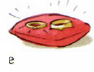
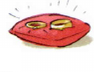
AB A1.2 p91 round 2: Droid Serif body, ex7 letters, bank/rings/colors
- Body text naS14(Times) -> naBookSerif (DroidSerif 14px, -0.35 tracking)
- Table headers DroidSerif bold 12px; dash fixed letters use DroidSerif face
- Ex7: add italic serif row letters a/b/c/d; field 7b underline at scan y992;
  pics moved before texts in DOM so text paints over pic white edges
  (bestanden! and Freunde tails no longer clipped)
- Bank strip: true bounds x107-457 y149-168, bg #fbf5d6 (measured)
- Ex5/ex6a rings: 1px pale (#d3d6c8 / #c9cdc0) matching scan
- Rings crop mask widened (Freunde tail ghost removed)

Changed region(s): [[0.0851, 0.7778, 0.1702, 0.9167]]

diff --git a/src/native-ab12-l2324/NativeAB12L23.tsx b/src/native-ab12-l2324/NativeAB12L23.tsx
@@ -432,48 +432,48 @@ export function NativeAB12L23({page}:{page:string}){
   {kb(32,124,'KB 3')}
   <div className="naSide naSideB" style={{left:56,top:160}}>STRUKTUREN</div>
   {title('4',55,119,640,'Ordnen Sie zu.','naRB naNw')}
-  <div className="naBank" style={{left:102,top:146,width:620,height:24,background:'#f5f9df'}}/>
+  <div className="naBank" style={{left:107,top:149,width:350,height:19,background:'#fbf5d6'}}/>
   <div className="naBank88" style={{left:111,top:149}}><Words text="ab | "/><span className="naStrikeB"><Words text="am"/></span><Words text=" | am | bis | bis | für | nach | im | in | um | vom | von"/></div>
-  {text(109,177,16,'a')}<div className="naText naS14 naNw" style={{left:127,top:177,width:340}}><span className="naStrikeB naBankInk"><Words text="Am"/></span><Words text=" Mittwoch hat Isabella Prüfung. Wir treffen uns"/></div>
+  {text(109,177,16,'a','naBookSerif naIt91')}<div className="naText naBookSerif naNw" style={{left:127,top:177,width:340}}><span className="naStrikeB naBankInk"><Words text="Am"/></span><Words text=" Mittwoch hat Isabella Prüfung. Wir treffen uns"/></div>
   {field('91-4a',464,175,62,'4 a um')}
-  {text(530,177,185,'17.00 Uhr vor der Schule und','naS14 naNw')}
-  {text(126,198,130,'wollen ihr gratulieren.','naS14 naNw')}
-  {text(108,217,16,'b')}{text(127,217,95,'Frau Stern hat','naS14 naNw')}
+  {text(530,177,185,'17.00 Uhr vor der Schule und','naBookSerif naNw')}
+  {text(126,198,130,'wollen ihr gratulieren.','naBookSerif naNw')}
+  {text(108,217,16,'b','naBookSerif naIt91')}{text(127,217,95,'Frau Stern hat','naBookSerif naNw')}
   {field('91-4b1',226,213,61,'4 b1 am')}
-  {text(292,217,140,'17. August Geburtstag.','naS14 naNw')}
+  {text(292,217,140,'17. August Geburtstag.','naBookSerif naNw')}
   {field('91-4b2',437,213,62,'4 b2 von')}
-  {text(503,217,60,'15.00 Uhr','naS14 naNw')}
+  {text(503,217,60,'15.00 Uhr','naBookSerif naNw')}
   {field('91-4b3',568,213,62,'4 b3 bis')}
-  {text(634,217,75,'16.00 Uhr','naS14 naNw')}
-  {text(126,237,290,'gibt es in ihrem Büro Kaffee und Kuchen.','naS14 naNw')}
-  {text(108,256,16,'c')}
+  {text(634,217,75,'16.00 Uhr','naBookSerif naNw')}
+  {text(126,237,290,'gibt es in ihrem Büro Kaffee und Kuchen.','naBookSerif naNw')}
+  {text(108,256,16,'c','naBookSerif naIt91')}
   {field('91-4c1',125,252,62,'4 c1 Im')}
-  {text(189,256,210,'Juli hat Herr Bellmann Urlaub,','naS14 naNw')}
+  {text(189,256,210,'Juli hat Herr Bellmann Urlaub,','naBookSerif naNw')}
   {field('91-4c2',402,252,62,'4 c2 vom')}
-  {text(467,256,45,'5. Juli','naS14 naNw')}
+  {text(467,256,45,'5. Juli','naBookSerif naNw')}
   {field('91-4c3',510,252,62,'4 c3 bis')}
-  {text(576,256,90,'zum 19. Juli.','naS14 naNw')}
-  {text(108,275,16,'d')}
+  {text(576,256,90,'zum 19. Juli.','naBookSerif naNw')}
+  {text(108,275,16,'d','naBookSerif naIt91')}
   {field('91-4d',125,271,62,'4 d Nach')}
-  {text(190,275,340,'dem Urlaub zieht er dann mit seiner Familie um.','naS14 naNw')}
-  {text(108,294,16,'e')}
+  {text(190,275,340,'dem Urlaub zieht er dann mit seiner Familie um.','naBookSerif naNw')}
+  {text(108,294,16,'e','naBookSerif naIt91')}
   {field('91-4e',125,290,62,'4 e In')}
-  {text(190,294,520,'vier Wochen ist schon wieder Weihnachten. Und ich habe noch keine','naS14 naNw')}
-  {text(126,315,100,'Geschenke.','naS14 naNw')}
-  {text(108,333,16,'f')}
+  {text(190,294,520,'vier Wochen ist schon wieder Weihnachten. Und ich habe noch keine','naBookSerif naNw')}
+  {text(126,315,100,'Geschenke.','naBookSerif naNw')}
+  {text(108,333,16,'f','naBookSerif naIt91')}
   {field('91-4f1',125,329,63,'4 f1 Ab')}
-  {text(191,333,100,'Montag bin ich','naS14 naNw')}
+  {text(191,333,100,'Montag bin ich','naBookSerif naNw')}
   {field('91-4f2',294,329,62,'4 f2 für')}
-  {text(360,333,150,'drei Wochen im Urlaub.','naS14 naNw')}
+  {text(360,333,150,'drei Wochen im Urlaub.','naBookSerif naNw')}
   {check('91-4',640,330,{'91-4a':'um','91-4b1':'am','91-4b2':'von','91-4b3':'bis','91-4c1':'Im|im','91-4c2':'vom','91-4c3':'bis','91-4d':'Nach|nach','91-4e':'In|in','91-4f1':'Ab|ab','91-4f2':'für'})}
   {kb(32,387,'KB 3')}
   <div className="naSide naSideB" style={{left:56,top:437}}>HÖREN</div>
   {title('5',55,382,640,'Was ist richtig? Hören Sie und kreuzen Sie an.','naRB naNw')}
   <button className="naAudio" style={{left:20,top:398}} aria-label="Originalaudio 2 40–43 abspielen" onClick={()=>{const p=c.player.current;if(!p)return;const seq=['assets/ab-cd2-track40.mp3','assets/ab-cd2-track41.mp3','assets/ab-cd2-track42.mp3','assets/ab-cd2-track43.mp3'];let i=0;p.onended=()=>{i+=1;if(i<seq.length){p.src=seq[i];p.play().catch(()=>{})}else{p.onended=null}};p.src=seq[0];p.play().catch(()=>{})}}>▶ 2 40–43</button>
-  {text(109,412,16,'a')}{text(126,412,380,'Am 23. August kann man die Praxis wieder besuchen.','naS14 naNw')}
-  {text(109,432,16,'b')}{text(126,432,300,'Luisa schafft es sicher um 15.30 Uhr.','naS14 naNw')}
-  {text(109,452,16,'c')}{text(126,452,380,'Der Anrufer wartet noch 10 Minuten vor dem Kino.','naS14 naNw')}
-  {text(109,472,16,'d')}{text(126,472,260,'Michi hat am Sonntag keine Zeit.','naS14 naNw')}
+  {text(109,412,16,'a','naBookSerif naIt91')}{text(126,412,380,'Am 23. August kann man die Praxis wieder besuchen.','naBookSerif naNw')}
+  {text(109,432,16,'b','naBookSerif naIt91')}{text(126,432,300,'Luisa schafft es sicher um 15.30 Uhr.','naBookSerif naNw')}
+  {text(109,452,16,'c','naBookSerif naIt91')}{text(126,452,380,'Der Anrufer wartet noch 10 Minuten vor dem Kino.','naBookSerif naNw')}
+  {text(109,472,16,'d','naBookSerif naIt91')}{text(126,472,260,'Michi hat am Sonntag keine Zeit.','naBookSerif naNw')}
   {dot('91-5a','true',519,414,'5 a richtig',true,'naDotR91')}
   {dot('91-5b','true',519,434,'5 b richtig',true,'naDotR91')}
   {dot('91-5c','true',519,454,'5 c richtig',true,'naDotR91')}
@@ -483,17 +483,17 @@ export function NativeAB12L23({page}:{page:string}){
   <div className="naSide naSideB" style={{left:56,top:576}}>WÖRTER</div>
   {title('6',55,518,640,'Was feiern die Personen?','naRB naNw')}
   {audio('assets/ab-cd2-track44.mp3',17,546,'2 44')}
-  {text(85,549,16,'a')}{text(110,549,230,'Hören Sie und nummerieren Sie.','naS14 naNw')}
+  {text(85,549,16,'a','naBookSerif naIt91')}{text(110,549,230,'Hören Sie und nummerieren Sie.','naBookSerif naNw')}
   {field('91-6a-ostern',107,576,18,'6 a Ostern Nummer','naFieldBlank naCirc91')}
-  {text(128,576,60,'Ostern','naS14 naNw')}
+  {text(128,576,60,'Ostern','naBookSerif naNw')}
   {art('circ1',192,579,24,15)}
-  {text(209,576,85,'Geburtstag','naS14 naNw')}
+  {text(209,576,85,'Geburtstag','naBookSerif naNw')}
   {field('91-6a-weihnachten',297,576,18,'6 a Weihnachten Nummer','naFieldBlank naCirc91')}
-  {text(316,576,100,'Weihnachten','naS14 naNw')}
+  {text(316,576,100,'Weihnachten','naBookSerif naNw')}
   {field('91-6a-silvester',421,576,18,'6 a Silvester Nummer','naFieldBlank naCirc91')}
-  {text(441,576,70,'Silvester','naS14 naNw')}
+  {text(441,576,70,'Silvester','naBookSerif naNw')}
   {check('91-6a',560,573,{'91-6a-ostern':'4','91-6a-weihnachten':'3','91-6a-silvester':'2'})}
-  {text(85,617,16,'b')}<div className="naText naS14 naNw" style={{left:110,top:617,width:280}}><Words text="Ergänzen Sie aus "/><span className="naBlue naIt">a</span><Words text=" und vergleichen Sie."/></div>
+  {text(85,617,16,'b','naBookSerif naIt91')}<div className="naText naBookSerif naNw" style={{left:110,top:617,width:280}}><Words text="Ergänzen Sie aus "/><span className="naBlue naIt">a</span><Words text=" und vergleichen Sie."/></div>
   {art('globe',57,614,34,32)}
   <div className="naTblBox" style={{left:102,top:640,width:616,height:114}}/>
   <div className="naTblHead" style={{left:103,top:641,width:614,height:21}}/>
@@ -503,19 +503,19 @@ export function NativeAB12L23({page}:{page:string}){
   <div className="naTblH naTblHL91" style={{left:102,top:729,width:616}}/>
   <div className="naTblV" style={{left:286,top:640,height:114}}/>
   <div className="naTblV" style={{left:458,top:640,height:114}}/>
-  <div className="naTblCell naTblCellS" style={{left:109,top:643}}>Deutsch</div>
-  <div className="naTblCell naTblCellS" style={{left:293,top:643}}>Englisch</div>
-  <div className="naTblCell naTblCellS" style={{left:465,top:643}}>Meine Sprache oder andere Sprachen</div>
+  <div className="naTblCell naTblCellS" style={{left:109,top:646}}>Deutsch</div>
+  <div className="naTblCell naTblCellS" style={{left:293,top:646}}>Englisch</div>
+  <div className="naTblCell naTblCellS" style={{left:465,top:646}}>Meine Sprache oder andere Sprachen</div>
   {([['91-6b-r1','Weihnachten',3,'h',681,'Deutsch Zeile 1'],['91-6b-r2','Geburtstag',7,'t',703,'Deutsch Zeile 2'],['91-6b-r3','Ostern',2,'t',726,'Deutsch Zeile 3'],['91-6b-r4','Silvester',3,'v',748,'Deutsch Zeile 4']] as [string,string,number,string,number,string][]).map(([id,ans,fi,fl,by,lb])=>{
     const els=[...ans.split('').map((ch,i)=><div key={'d'+i} className="naDash91" style={{left:114+i*11.2,top:by}}/>)];
     els.push(<div key="fl" className="naFix91" style={{left:113+fi*11.2,top:by-14}}>{fl}</div>);
     els.push(<span key="f">{field(id,110,by-18,ans.length*11.2+8,lb,'naFieldBlank naGap91')}</span>);
     return els;
   })}
-  {text(287,666,100,'Christmas','naS14 naNw')}
-  {text(287,689,100,'birthday','naS14 naNw')}
-  {text(287,712,100,'Easter','naS14 naNw')}
-  {text(287,734,130,"New Year's Eve",'naS14 naNw')}
+  {text(287,666,100,'Christmas','naBookSerif naNw')}
+  {text(287,689,100,'birthday','naBookSerif naNw')}
+  {text(287,712,100,'Easter','naBookSerif naNw')}
+  {text(287,734,130,"New Year's Eve",'naBookSerif naNw')}
   {field('91-6b-n1',465,663,240,'Meine Sprache Zeile 1','naFieldBlank')}
   {field('91-6b-n2',465,685,240,'Meine Sprache Zeile 2','naFieldBlank')}
   {field('91-6b-n3',465,707,240,'Meine Sprache Zeile 3','naFieldBlank')}
@@ -524,27 +524,31 @@ export function NativeAB12L23({page}:{page:string}){
   {kb(32,796,'KB 4')}
   {title('7',55,790,640,'Was ist das? Ergänzen Sie.','naRB naNw')}
   <div className="naSide naSideB" style={{left:56,top:831}}>WÖRTER</div>
-  {text(110,840,190,'Der erste Tag des Jahres heißt','naS14 naNw')}
-  {field('91-7a',108,862,154,'7 a Neujahr')}
-  {text(266,865,10,'.','naS14')}
   {art('sekt',302,822,107,71)}
-  {text(109,919,230,'Holger und Katrin wollen im','naS14 naNw')}
-  {text(109,938,220,'Mai heiraten. Sie haben die','naS14 naNw')}
-  {text(108,958,220,'ganze Familie und viele Freunde','naS14 naNw')}
-  {text(109,978,22,'zur','naS14 naNw')}
-  {field('91-7b',133,980,112,'7 b Hochzeit')}
-  {text(254,978,90,'eingeladen.','naS14 naNw')}
   {art('rings',310,908,94,72)}
-  {text(433,840,110,'Tobias hat seine','naS14 naNw')}
-  {field('91-7c',436,857,154,'7 c Prüfungen')}
-  {text(592,861,90,'bestanden!','naS14 naNw')}
-  {text(434,881,170,'Das möchte er groß feiern.','naS14 naNw')}
   {art('grad',652,808,86,70)}
-  {text(434,939,150,'Wir haben neue Nachbarn.','naS14 naNw')}
-  {text(433,958,230,'Am Wochenende machen sie eine','naS14 naNw')}
-  {field('91-7d',436,985,259,'7 d Einweihungsparty')}
-  {text(699,990,10,'.','naS14')}
   {art('boxes',655,905,105,93)}
+  {text(108,822,16,'a','naBookSerif naIt91')}
+  {text(110,840,190,'Der erste Tag des Jahres heißt','naBookSerif naNw')}
+  {field('91-7a',108,862,154,'7 a Neujahr')}
+  {text(266,865,10,'.','naBookSerif')}
+  {text(108,900,16,'b','naBookSerif naIt91')}
+  {text(109,919,230,'Holger und Katrin wollen im','naBookSerif naNw')}
+  {text(109,938,220,'Mai heiraten. Sie haben die','naBookSerif naNw')}
+  {text(108,958,220,'ganze Familie und viele Freunde','naBookSerif naNw')}
+  {text(109,978,22,'zur','naBookSerif naNw')}
+  {field('91-7b',133,972,112,'7 b Hochzeit')}
+  {text(254,978,90,'eingeladen.','naBookSerif naNw')}
+  {text(435,822,16,'c','naBookSerif naIt91')}
+  {text(433,840,110,'Tobias hat seine','naBookSerif naNw')}
+  {field('91-7c',436,857,154,'7 c Prüfungen')}
+  {text(592,861,90,'bestanden!','naBookSerif naNw')}
+  {text(434,881,170,'Das möchte er groß feiern.','naBookSerif naNw')}
+  {text(434,920,16,'d','naBookSerif naIt91')}
+  {text(434,939,150,'Wir haben neue Nachbarn.','naBookSerif naNw')}
+  {text(433,958,230,'Am Wochenende machen sie eine','naBookSerif naNw')}
+  {field('91-7d',436,985,259,'7 d Einweihungsparty')}
+  {text(699,990,10,'.','naBookSerif')}
   {check('91-7',640,1006,{'91-7a':'Neujahr','91-7b':'Hochzeit','91-7c':'Prüfungen','91-7d':'Einweihungsparty'})}
   {art('modul8-tab',742,1043,65,25)}
   <div className="naText naFooter" style={{left:420,top:1045,width:310,textAlign:'right'}}>einundneunzig&nbsp;&nbsp;|&nbsp;&nbsp;91</div>

diff --git a/src/native-ab12-l2324/native-ab12-l2324.css b/src/native-ab12-l2324/native-ab12-l2324.css
@@ -100,5 +100,10 @@
 [data-native-ab12="91"] .naField.naCirc91{border:1.2px solid #6a6a6a!important;border-radius:50%!important;text-align:center;padding:0!important;font-size:12px!important;height:16px!important;width:16px}
 .naCanvas .naGap91{background:transparent;letter-spacing:4.9px;font-size:13px;padding:0 0 0 3px;height:20px}
 .naCanvas .naDash91{position:absolute;height:0;border-bottom:1.5px solid #4a5a75;width:7px}
-.naCanvas .naFix91{position:absolute;font:14px 'Droid Serif',serif;color:#222}
+.naCanvas .naFix91{position:absolute;font:14px DroidSerif,Georgia,serif;color:#222}
 .naCanvas .naTblHL91{opacity:.45}
+[data-native-ab12="91"] .naTblCell{font-family:DroidSerif,Georgia,serif}
+[data-native-ab12="91"] .naTblCell.naTblCellS{font-size:12px}
+.naCanvas .naText.naIt91{font-style:italic}
+[data-native-ab12="91"] .naField.naCirc91{border:1px solid #c9cdc0!important}
+[data-native-ab12="91"] .naDot.naDotR91{border-width:1px!important;border-color:#d3d6c8!important}
